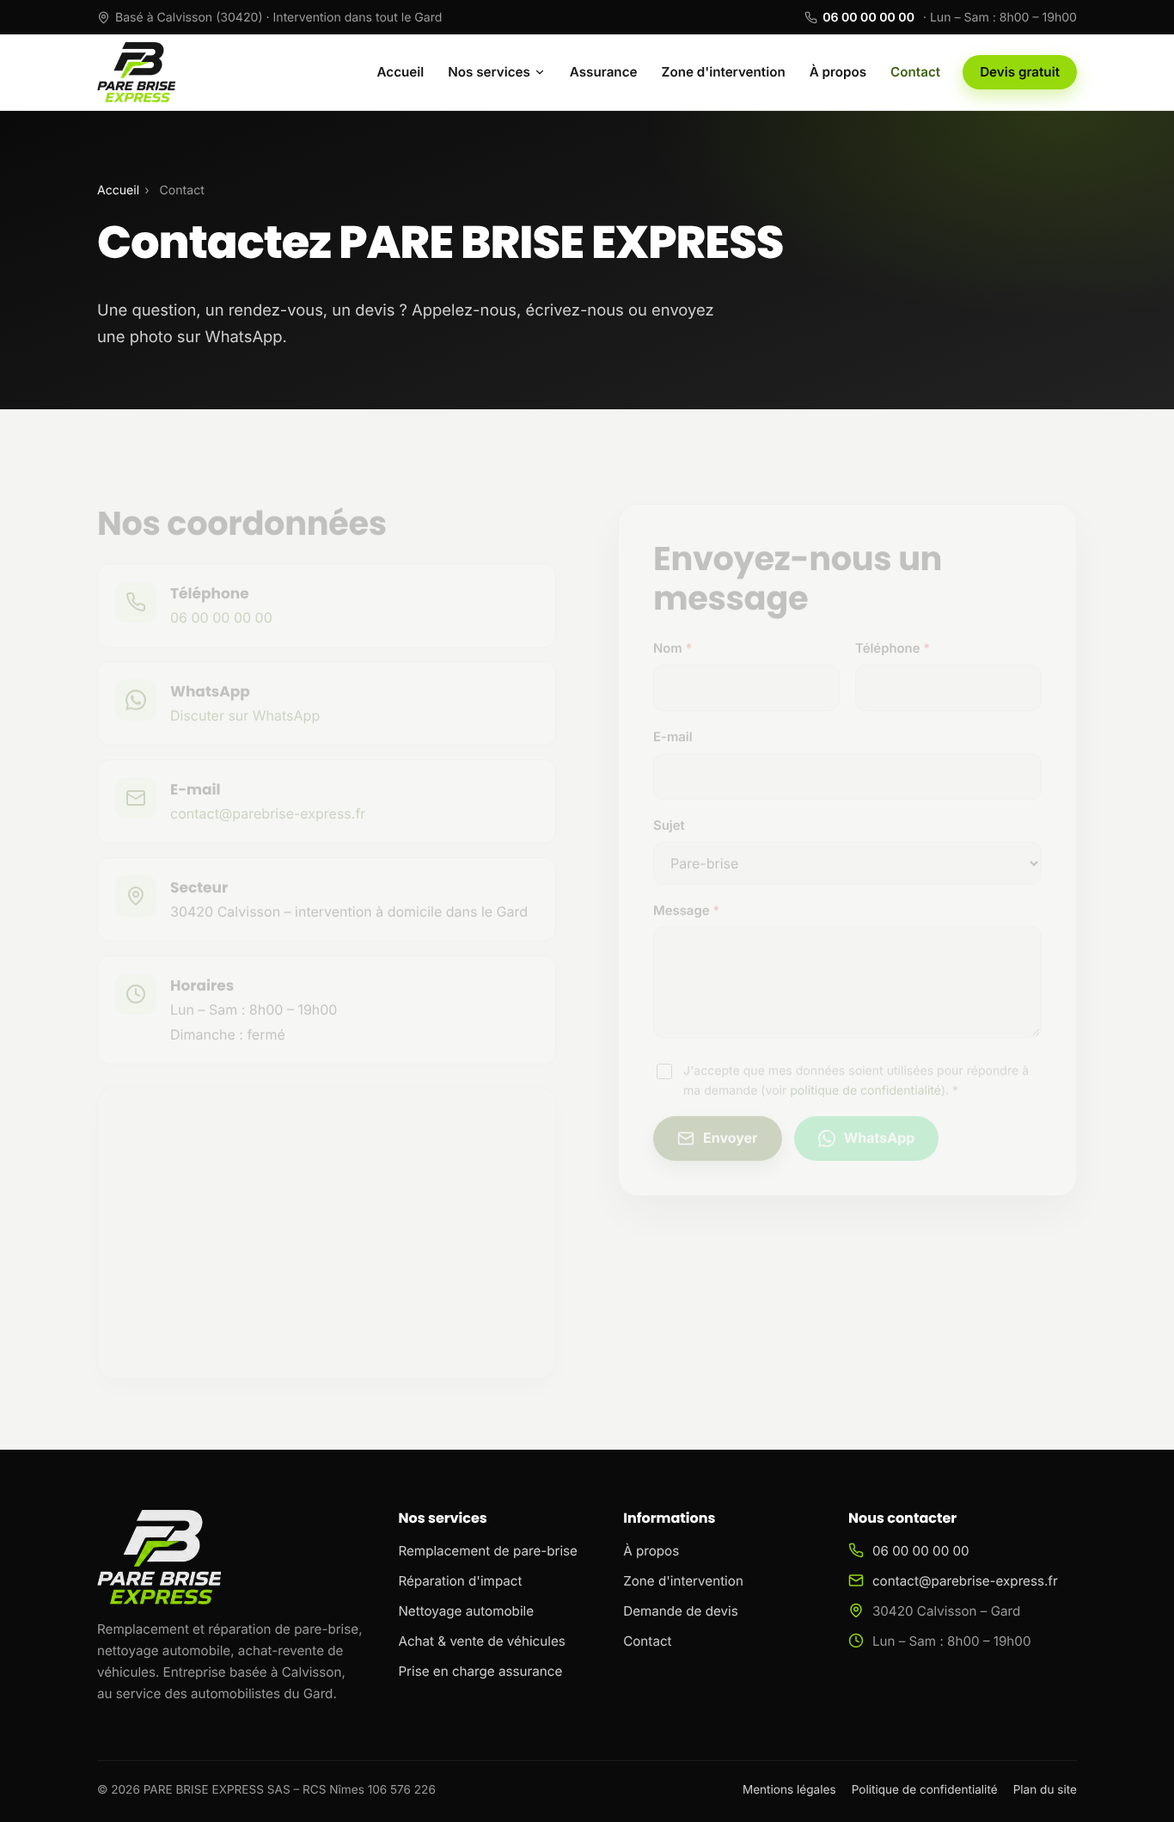
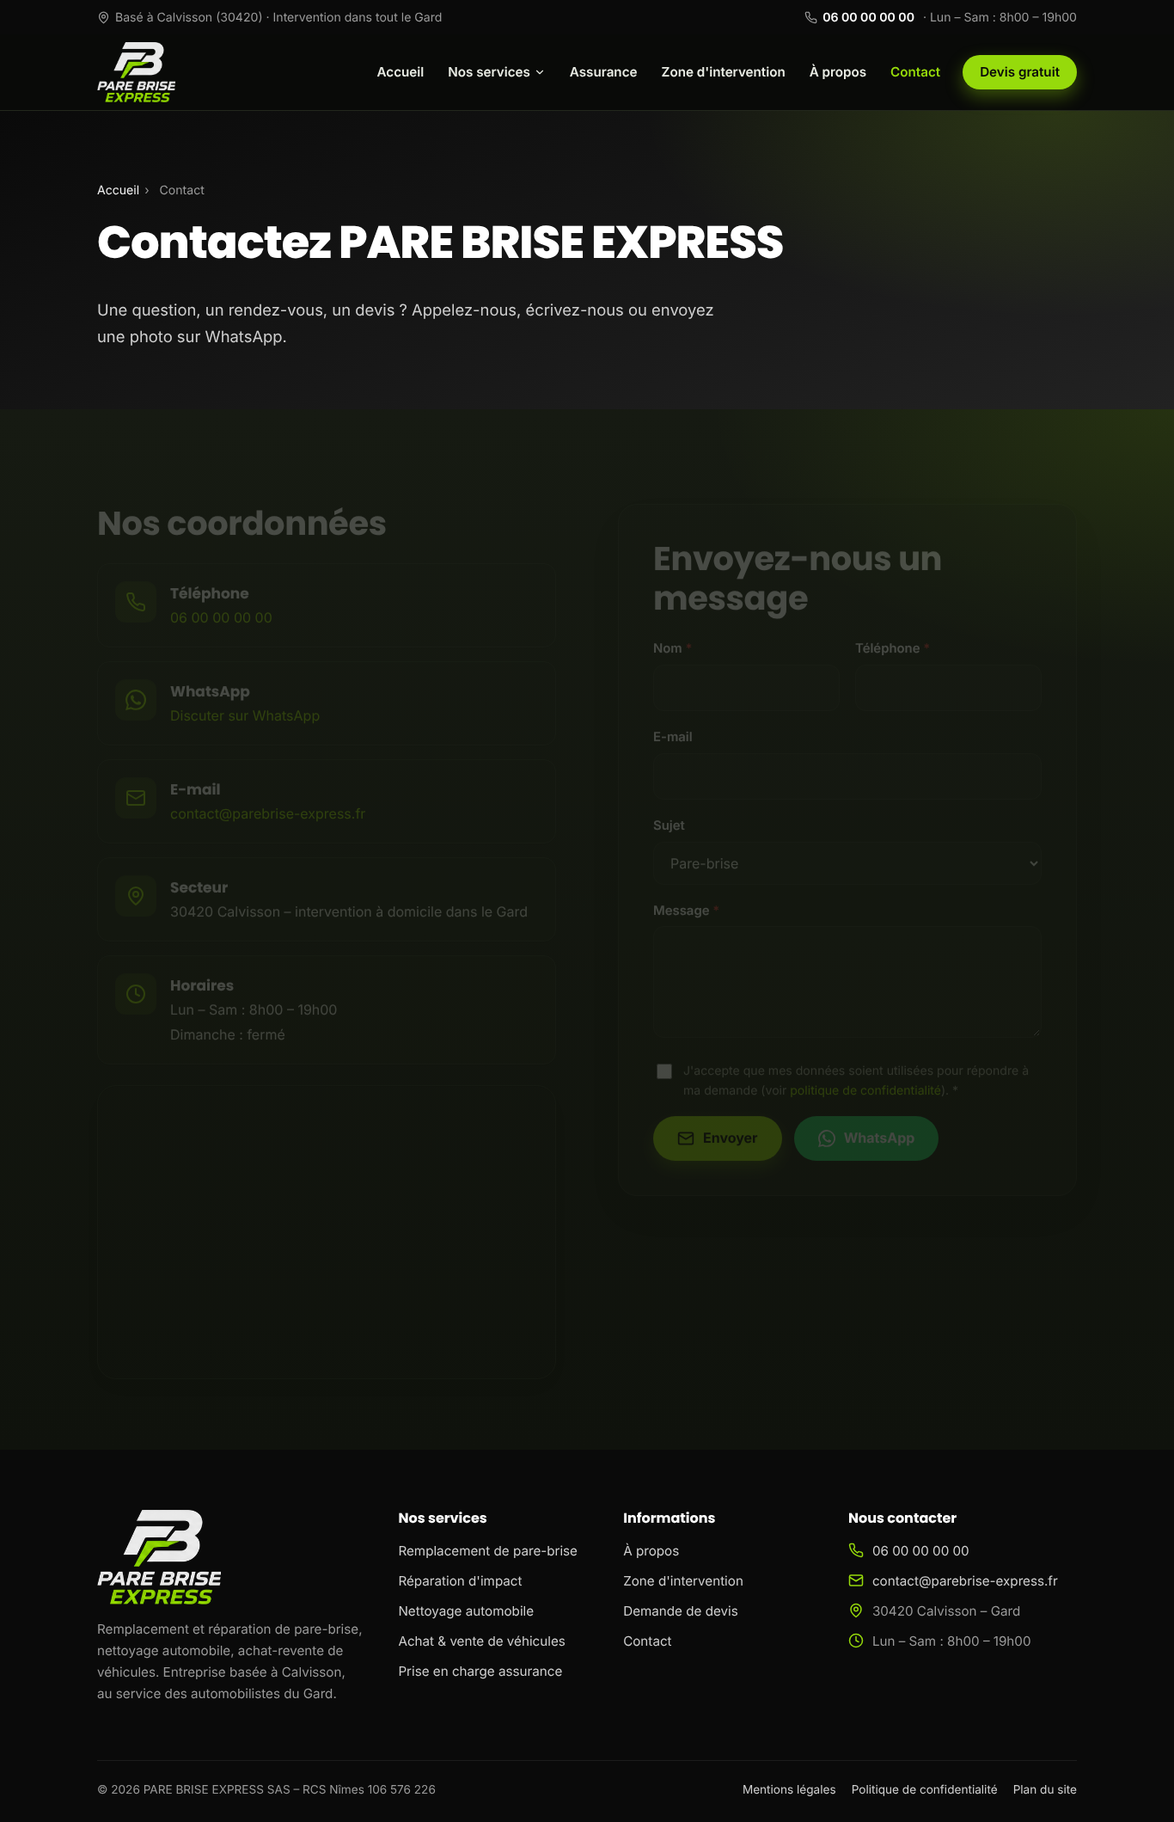
Activer l'ambiance Nuit sur tout le site
En-tête sombre avec la version blanche du logo, encarts du hero assombris,
tableau de la page Réparation d'impact sans débordement.

Claude-Session: https://claude.ai/code/session_01UgdzWtsvjubcNTfK2R8s6y

diff --git a/index.html b/index.html
@@ -1,5 +1,5 @@
 <!DOCTYPE html>
-<html lang="fr" data-palette="lime">
+<html lang="fr" data-palette="lime" data-ambiance="nuit">
 <head>
 <meta charset="utf-8">
 <meta name="viewport" content="width=device-width, initial-scale=1">
@@ -28,7 +28,7 @@
   <span><svg viewBox="0 0 24 24" fill="none" stroke="currentColor" stroke-width="2" stroke-linecap="round" stroke-linejoin="round" aria-hidden="true"><path d="M22 16.9v3a2 2 0 0 1-2.2 2 19.8 19.8 0 0 1-8.6-3.1 19.5 19.5 0 0 1-6-6A19.8 19.8 0 0 1 2.1 4.2 2 2 0 0 1 4.1 2h3a2 2 0 0 1 2 1.7c.1 1 .4 1.9.7 2.8a2 2 0 0 1-.5 2.1L8 9.9a16 16 0 0 0 6 6l1.3-1.3a2 2 0 0 1 2.1-.4c.9.3 1.8.6 2.8.7a2 2 0 0 1 1.7 2z"/></svg> <a href="tel:+33600000000">06 00 00 00 00</a> <span class="hide-sm">&nbsp;·&nbsp;Lun – Sam : 8h00 – 19h00</span></span>
 </div></div>
 <header class="header"><div class="container">
-  <a class="logo" href="index.html" aria-label="PARE BRISE EXPRESS – accueil"><img src="assets/img/logo.png" alt="PARE BRISE EXPRESS" width="269" height="206"></a>
+  <a class="logo" href="index.html" aria-label="PARE BRISE EXPRESS – accueil"><img class="logo-light" src="assets/img/logo.png" alt="PARE BRISE EXPRESS" width="269" height="206"><img class="logo-dark" src="assets/img/logo-blanc.png" alt="PARE BRISE EXPRESS" width="269" height="206"></a>
   <button class="nav-toggle" aria-label="Ouvrir le menu" aria-expanded="false" aria-controls="menu"><svg viewBox="0 0 24 24" fill="none" stroke="currentColor" stroke-width="2" stroke-linecap="round" stroke-linejoin="round" aria-hidden="true"><path d="M4 6h16M4 12h16M4 18h16"/></svg></button>
   <nav class="nav" id="menu" aria-label="Navigation principale">
     <a href="index.html" class="active" aria-current="page">Accueil</a>

diff --git a/404.html b/404.html
@@ -1,5 +1,5 @@
 <!DOCTYPE html>
-<html lang="fr" data-palette="lime">
+<html lang="fr" data-palette="lime" data-ambiance="nuit">
 <head>
 <meta charset="utf-8">
 <meta name="viewport" content="width=device-width, initial-scale=1">
@@ -27,7 +27,7 @@
   <span><svg viewBox="0 0 24 24" fill="none" stroke="currentColor" stroke-width="2" stroke-linecap="round" stroke-linejoin="round" aria-hidden="true"><path d="M22 16.9v3a2 2 0 0 1-2.2 2 19.8 19.8 0 0 1-8.6-3.1 19.5 19.5 0 0 1-6-6A19.8 19.8 0 0 1 2.1 4.2 2 2 0 0 1 4.1 2h3a2 2 0 0 1 2 1.7c.1 1 .4 1.9.7 2.8a2 2 0 0 1-.5 2.1L8 9.9a16 16 0 0 0 6 6l1.3-1.3a2 2 0 0 1 2.1-.4c.9.3 1.8.6 2.8.7a2 2 0 0 1 1.7 2z"/></svg> <a href="tel:+33600000000">06 00 00 00 00</a> <span class="hide-sm">&nbsp;·&nbsp;Lun – Sam : 8h00 – 19h00</span></span>
 </div></div>
 <header class="header"><div class="container">
-  <a class="logo" href="index.html" aria-label="PARE BRISE EXPRESS – accueil"><img src="assets/img/logo.png" alt="PARE BRISE EXPRESS" width="269" height="206"></a>
+  <a class="logo" href="index.html" aria-label="PARE BRISE EXPRESS – accueil"><img class="logo-light" src="assets/img/logo.png" alt="PARE BRISE EXPRESS" width="269" height="206"><img class="logo-dark" src="assets/img/logo-blanc.png" alt="PARE BRISE EXPRESS" width="269" height="206"></a>
   <button class="nav-toggle" aria-label="Ouvrir le menu" aria-expanded="false" aria-controls="menu"><svg viewBox="0 0 24 24" fill="none" stroke="currentColor" stroke-width="2" stroke-linecap="round" stroke-linejoin="round" aria-hidden="true"><path d="M4 6h16M4 12h16M4 18h16"/></svg></button>
   <nav class="nav" id="menu" aria-label="Navigation principale">
     <a href="index.html">Accueil</a>

diff --git a/a-propos.html b/a-propos.html
@@ -1,5 +1,5 @@
 <!DOCTYPE html>
-<html lang="fr" data-palette="lime">
+<html lang="fr" data-palette="lime" data-ambiance="nuit">
 <head>
 <meta charset="utf-8">
 <meta name="viewport" content="width=device-width, initial-scale=1">
@@ -27,7 +27,7 @@
   <span><svg viewBox="0 0 24 24" fill="none" stroke="currentColor" stroke-width="2" stroke-linecap="round" stroke-linejoin="round" aria-hidden="true"><path d="M22 16.9v3a2 2 0 0 1-2.2 2 19.8 19.8 0 0 1-8.6-3.1 19.5 19.5 0 0 1-6-6A19.8 19.8 0 0 1 2.1 4.2 2 2 0 0 1 4.1 2h3a2 2 0 0 1 2 1.7c.1 1 .4 1.9.7 2.8a2 2 0 0 1-.5 2.1L8 9.9a16 16 0 0 0 6 6l1.3-1.3a2 2 0 0 1 2.1-.4c.9.3 1.8.6 2.8.7a2 2 0 0 1 1.7 2z"/></svg> <a href="tel:+33600000000">06 00 00 00 00</a> <span class="hide-sm">&nbsp;·&nbsp;Lun – Sam : 8h00 – 19h00</span></span>
 </div></div>
 <header class="header"><div class="container">
-  <a class="logo" href="index.html" aria-label="PARE BRISE EXPRESS – accueil"><img src="assets/img/logo.png" alt="PARE BRISE EXPRESS" width="269" height="206"></a>
+  <a class="logo" href="index.html" aria-label="PARE BRISE EXPRESS – accueil"><img class="logo-light" src="assets/img/logo.png" alt="PARE BRISE EXPRESS" width="269" height="206"><img class="logo-dark" src="assets/img/logo-blanc.png" alt="PARE BRISE EXPRESS" width="269" height="206"></a>
   <button class="nav-toggle" aria-label="Ouvrir le menu" aria-expanded="false" aria-controls="menu"><svg viewBox="0 0 24 24" fill="none" stroke="currentColor" stroke-width="2" stroke-linecap="round" stroke-linejoin="round" aria-hidden="true"><path d="M4 6h16M4 12h16M4 18h16"/></svg></button>
   <nav class="nav" id="menu" aria-label="Navigation principale">
     <a href="index.html">Accueil</a>

diff --git a/achat-vente-vehicules.html b/achat-vente-vehicules.html
@@ -1,5 +1,5 @@
 <!DOCTYPE html>
-<html lang="fr" data-palette="lime">
+<html lang="fr" data-palette="lime" data-ambiance="nuit">
 <head>
 <meta charset="utf-8">
 <meta name="viewport" content="width=device-width, initial-scale=1">
@@ -27,7 +27,7 @@
   <span><svg viewBox="0 0 24 24" fill="none" stroke="currentColor" stroke-width="2" stroke-linecap="round" stroke-linejoin="round" aria-hidden="true"><path d="M22 16.9v3a2 2 0 0 1-2.2 2 19.8 19.8 0 0 1-8.6-3.1 19.5 19.5 0 0 1-6-6A19.8 19.8 0 0 1 2.1 4.2 2 2 0 0 1 4.1 2h3a2 2 0 0 1 2 1.7c.1 1 .4 1.9.7 2.8a2 2 0 0 1-.5 2.1L8 9.9a16 16 0 0 0 6 6l1.3-1.3a2 2 0 0 1 2.1-.4c.9.3 1.8.6 2.8.7a2 2 0 0 1 1.7 2z"/></svg> <a href="tel:+33600000000">06 00 00 00 00</a> <span class="hide-sm">&nbsp;·&nbsp;Lun – Sam : 8h00 – 19h00</span></span>
 </div></div>
 <header class="header"><div class="container">
-  <a class="logo" href="index.html" aria-label="PARE BRISE EXPRESS – accueil"><img src="assets/img/logo.png" alt="PARE BRISE EXPRESS" width="269" height="206"></a>
+  <a class="logo" href="index.html" aria-label="PARE BRISE EXPRESS – accueil"><img class="logo-light" src="assets/img/logo.png" alt="PARE BRISE EXPRESS" width="269" height="206"><img class="logo-dark" src="assets/img/logo-blanc.png" alt="PARE BRISE EXPRESS" width="269" height="206"></a>
   <button class="nav-toggle" aria-label="Ouvrir le menu" aria-expanded="false" aria-controls="menu"><svg viewBox="0 0 24 24" fill="none" stroke="currentColor" stroke-width="2" stroke-linecap="round" stroke-linejoin="round" aria-hidden="true"><path d="M4 6h16M4 12h16M4 18h16"/></svg></button>
   <nav class="nav" id="menu" aria-label="Navigation principale">
     <a href="index.html">Accueil</a>

diff --git a/assurance.html b/assurance.html
@@ -1,5 +1,5 @@
 <!DOCTYPE html>
-<html lang="fr" data-palette="lime">
+<html lang="fr" data-palette="lime" data-ambiance="nuit">
 <head>
 <meta charset="utf-8">
 <meta name="viewport" content="width=device-width, initial-scale=1">
@@ -28,7 +28,7 @@
   <span><svg viewBox="0 0 24 24" fill="none" stroke="currentColor" stroke-width="2" stroke-linecap="round" stroke-linejoin="round" aria-hidden="true"><path d="M22 16.9v3a2 2 0 0 1-2.2 2 19.8 19.8 0 0 1-8.6-3.1 19.5 19.5 0 0 1-6-6A19.8 19.8 0 0 1 2.1 4.2 2 2 0 0 1 4.1 2h3a2 2 0 0 1 2 1.7c.1 1 .4 1.9.7 2.8a2 2 0 0 1-.5 2.1L8 9.9a16 16 0 0 0 6 6l1.3-1.3a2 2 0 0 1 2.1-.4c.9.3 1.8.6 2.8.7a2 2 0 0 1 1.7 2z"/></svg> <a href="tel:+33600000000">06 00 00 00 00</a> <span class="hide-sm">&nbsp;·&nbsp;Lun – Sam : 8h00 – 19h00</span></span>
 </div></div>
 <header class="header"><div class="container">
-  <a class="logo" href="index.html" aria-label="PARE BRISE EXPRESS – accueil"><img src="assets/img/logo.png" alt="PARE BRISE EXPRESS" width="269" height="206"></a>
+  <a class="logo" href="index.html" aria-label="PARE BRISE EXPRESS – accueil"><img class="logo-light" src="assets/img/logo.png" alt="PARE BRISE EXPRESS" width="269" height="206"><img class="logo-dark" src="assets/img/logo-blanc.png" alt="PARE BRISE EXPRESS" width="269" height="206"></a>
   <button class="nav-toggle" aria-label="Ouvrir le menu" aria-expanded="false" aria-controls="menu"><svg viewBox="0 0 24 24" fill="none" stroke="currentColor" stroke-width="2" stroke-linecap="round" stroke-linejoin="round" aria-hidden="true"><path d="M4 6h16M4 12h16M4 18h16"/></svg></button>
   <nav class="nav" id="menu" aria-label="Navigation principale">
     <a href="index.html">Accueil</a>

diff --git a/confidentialite.html b/confidentialite.html
@@ -1,5 +1,5 @@
 <!DOCTYPE html>
-<html lang="fr" data-palette="lime">
+<html lang="fr" data-palette="lime" data-ambiance="nuit">
 <head>
 <meta charset="utf-8">
 <meta name="viewport" content="width=device-width, initial-scale=1">
@@ -27,7 +27,7 @@
   <span><svg viewBox="0 0 24 24" fill="none" stroke="currentColor" stroke-width="2" stroke-linecap="round" stroke-linejoin="round" aria-hidden="true"><path d="M22 16.9v3a2 2 0 0 1-2.2 2 19.8 19.8 0 0 1-8.6-3.1 19.5 19.5 0 0 1-6-6A19.8 19.8 0 0 1 2.1 4.2 2 2 0 0 1 4.1 2h3a2 2 0 0 1 2 1.7c.1 1 .4 1.9.7 2.8a2 2 0 0 1-.5 2.1L8 9.9a16 16 0 0 0 6 6l1.3-1.3a2 2 0 0 1 2.1-.4c.9.3 1.8.6 2.8.7a2 2 0 0 1 1.7 2z"/></svg> <a href="tel:+33600000000">06 00 00 00 00</a> <span class="hide-sm">&nbsp;·&nbsp;Lun – Sam : 8h00 – 19h00</span></span>
 </div></div>
 <header class="header"><div class="container">
-  <a class="logo" href="index.html" aria-label="PARE BRISE EXPRESS – accueil"><img src="assets/img/logo.png" alt="PARE BRISE EXPRESS" width="269" height="206"></a>
+  <a class="logo" href="index.html" aria-label="PARE BRISE EXPRESS – accueil"><img class="logo-light" src="assets/img/logo.png" alt="PARE BRISE EXPRESS" width="269" height="206"><img class="logo-dark" src="assets/img/logo-blanc.png" alt="PARE BRISE EXPRESS" width="269" height="206"></a>
   <button class="nav-toggle" aria-label="Ouvrir le menu" aria-expanded="false" aria-controls="menu"><svg viewBox="0 0 24 24" fill="none" stroke="currentColor" stroke-width="2" stroke-linecap="round" stroke-linejoin="round" aria-hidden="true"><path d="M4 6h16M4 12h16M4 18h16"/></svg></button>
   <nav class="nav" id="menu" aria-label="Navigation principale">
     <a href="index.html">Accueil</a>

diff --git a/contact.html b/contact.html
@@ -1,5 +1,5 @@
 <!DOCTYPE html>
-<html lang="fr" data-palette="lime">
+<html lang="fr" data-palette="lime" data-ambiance="nuit">
 <head>
 <meta charset="utf-8">
 <meta name="viewport" content="width=device-width, initial-scale=1">
@@ -27,7 +27,7 @@
   <span><svg viewBox="0 0 24 24" fill="none" stroke="currentColor" stroke-width="2" stroke-linecap="round" stroke-linejoin="round" aria-hidden="true"><path d="M22 16.9v3a2 2 0 0 1-2.2 2 19.8 19.8 0 0 1-8.6-3.1 19.5 19.5 0 0 1-6-6A19.8 19.8 0 0 1 2.1 4.2 2 2 0 0 1 4.1 2h3a2 2 0 0 1 2 1.7c.1 1 .4 1.9.7 2.8a2 2 0 0 1-.5 2.1L8 9.9a16 16 0 0 0 6 6l1.3-1.3a2 2 0 0 1 2.1-.4c.9.3 1.8.6 2.8.7a2 2 0 0 1 1.7 2z"/></svg> <a href="tel:+33600000000">06 00 00 00 00</a> <span class="hide-sm">&nbsp;·&nbsp;Lun – Sam : 8h00 – 19h00</span></span>
 </div></div>
 <header class="header"><div class="container">
-  <a class="logo" href="index.html" aria-label="PARE BRISE EXPRESS – accueil"><img src="assets/img/logo.png" alt="PARE BRISE EXPRESS" width="269" height="206"></a>
+  <a class="logo" href="index.html" aria-label="PARE BRISE EXPRESS – accueil"><img class="logo-light" src="assets/img/logo.png" alt="PARE BRISE EXPRESS" width="269" height="206"><img class="logo-dark" src="assets/img/logo-blanc.png" alt="PARE BRISE EXPRESS" width="269" height="206"></a>
   <button class="nav-toggle" aria-label="Ouvrir le menu" aria-expanded="false" aria-controls="menu"><svg viewBox="0 0 24 24" fill="none" stroke="currentColor" stroke-width="2" stroke-linecap="round" stroke-linejoin="round" aria-hidden="true"><path d="M4 6h16M4 12h16M4 18h16"/></svg></button>
   <nav class="nav" id="menu" aria-label="Navigation principale">
     <a href="index.html">Accueil</a>

diff --git a/devis.html b/devis.html
@@ -1,5 +1,5 @@
 <!DOCTYPE html>
-<html lang="fr" data-palette="lime">
+<html lang="fr" data-palette="lime" data-ambiance="nuit">
 <head>
 <meta charset="utf-8">
 <meta name="viewport" content="width=device-width, initial-scale=1">
@@ -27,7 +27,7 @@
   <span><svg viewBox="0 0 24 24" fill="none" stroke="currentColor" stroke-width="2" stroke-linecap="round" stroke-linejoin="round" aria-hidden="true"><path d="M22 16.9v3a2 2 0 0 1-2.2 2 19.8 19.8 0 0 1-8.6-3.1 19.5 19.5 0 0 1-6-6A19.8 19.8 0 0 1 2.1 4.2 2 2 0 0 1 4.1 2h3a2 2 0 0 1 2 1.7c.1 1 .4 1.9.7 2.8a2 2 0 0 1-.5 2.1L8 9.9a16 16 0 0 0 6 6l1.3-1.3a2 2 0 0 1 2.1-.4c.9.3 1.8.6 2.8.7a2 2 0 0 1 1.7 2z"/></svg> <a href="tel:+33600000000">06 00 00 00 00</a> <span class="hide-sm">&nbsp;·&nbsp;Lun – Sam : 8h00 – 19h00</span></span>
 </div></div>
 <header class="header"><div class="container">
-  <a class="logo" href="index.html" aria-label="PARE BRISE EXPRESS – accueil"><img src="assets/img/logo.png" alt="PARE BRISE EXPRESS" width="269" height="206"></a>
+  <a class="logo" href="index.html" aria-label="PARE BRISE EXPRESS – accueil"><img class="logo-light" src="assets/img/logo.png" alt="PARE BRISE EXPRESS" width="269" height="206"><img class="logo-dark" src="assets/img/logo-blanc.png" alt="PARE BRISE EXPRESS" width="269" height="206"></a>
   <button class="nav-toggle" aria-label="Ouvrir le menu" aria-expanded="false" aria-controls="menu"><svg viewBox="0 0 24 24" fill="none" stroke="currentColor" stroke-width="2" stroke-linecap="round" stroke-linejoin="round" aria-hidden="true"><path d="M4 6h16M4 12h16M4 18h16"/></svg></button>
   <nav class="nav" id="menu" aria-label="Navigation principale">
     <a href="index.html">Accueil</a>

diff --git a/mentions-legales.html b/mentions-legales.html
@@ -1,5 +1,5 @@
 <!DOCTYPE html>
-<html lang="fr" data-palette="lime">
+<html lang="fr" data-palette="lime" data-ambiance="nuit">
 <head>
 <meta charset="utf-8">
 <meta name="viewport" content="width=device-width, initial-scale=1">
@@ -27,7 +27,7 @@
   <span><svg viewBox="0 0 24 24" fill="none" stroke="currentColor" stroke-width="2" stroke-linecap="round" stroke-linejoin="round" aria-hidden="true"><path d="M22 16.9v3a2 2 0 0 1-2.2 2 19.8 19.8 0 0 1-8.6-3.1 19.5 19.5 0 0 1-6-6A19.8 19.8 0 0 1 2.1 4.2 2 2 0 0 1 4.1 2h3a2 2 0 0 1 2 1.7c.1 1 .4 1.9.7 2.8a2 2 0 0 1-.5 2.1L8 9.9a16 16 0 0 0 6 6l1.3-1.3a2 2 0 0 1 2.1-.4c.9.3 1.8.6 2.8.7a2 2 0 0 1 1.7 2z"/></svg> <a href="tel:+33600000000">06 00 00 00 00</a> <span class="hide-sm">&nbsp;·&nbsp;Lun – Sam : 8h00 – 19h00</span></span>
 </div></div>
 <header class="header"><div class="container">
-  <a class="logo" href="index.html" aria-label="PARE BRISE EXPRESS – accueil"><img src="assets/img/logo.png" alt="PARE BRISE EXPRESS" width="269" height="206"></a>
+  <a class="logo" href="index.html" aria-label="PARE BRISE EXPRESS – accueil"><img class="logo-light" src="assets/img/logo.png" alt="PARE BRISE EXPRESS" width="269" height="206"><img class="logo-dark" src="assets/img/logo-blanc.png" alt="PARE BRISE EXPRESS" width="269" height="206"></a>
   <button class="nav-toggle" aria-label="Ouvrir le menu" aria-expanded="false" aria-controls="menu"><svg viewBox="0 0 24 24" fill="none" stroke="currentColor" stroke-width="2" stroke-linecap="round" stroke-linejoin="round" aria-hidden="true"><path d="M4 6h16M4 12h16M4 18h16"/></svg></button>
   <nav class="nav" id="menu" aria-label="Navigation principale">
     <a href="index.html">Accueil</a>

diff --git a/nettoyage-automobile.html b/nettoyage-automobile.html
@@ -1,5 +1,5 @@
 <!DOCTYPE html>
-<html lang="fr" data-palette="lime">
+<html lang="fr" data-palette="lime" data-ambiance="nuit">
 <head>
 <meta charset="utf-8">
 <meta name="viewport" content="width=device-width, initial-scale=1">
@@ -27,7 +27,7 @@
   <span><svg viewBox="0 0 24 24" fill="none" stroke="currentColor" stroke-width="2" stroke-linecap="round" stroke-linejoin="round" aria-hidden="true"><path d="M22 16.9v3a2 2 0 0 1-2.2 2 19.8 19.8 0 0 1-8.6-3.1 19.5 19.5 0 0 1-6-6A19.8 19.8 0 0 1 2.1 4.2 2 2 0 0 1 4.1 2h3a2 2 0 0 1 2 1.7c.1 1 .4 1.9.7 2.8a2 2 0 0 1-.5 2.1L8 9.9a16 16 0 0 0 6 6l1.3-1.3a2 2 0 0 1 2.1-.4c.9.3 1.8.6 2.8.7a2 2 0 0 1 1.7 2z"/></svg> <a href="tel:+33600000000">06 00 00 00 00</a> <span class="hide-sm">&nbsp;·&nbsp;Lun – Sam : 8h00 – 19h00</span></span>
 </div></div>
 <header class="header"><div class="container">
-  <a class="logo" href="index.html" aria-label="PARE BRISE EXPRESS – accueil"><img src="assets/img/logo.png" alt="PARE BRISE EXPRESS" width="269" height="206"></a>
+  <a class="logo" href="index.html" aria-label="PARE BRISE EXPRESS – accueil"><img class="logo-light" src="assets/img/logo.png" alt="PARE BRISE EXPRESS" width="269" height="206"><img class="logo-dark" src="assets/img/logo-blanc.png" alt="PARE BRISE EXPRESS" width="269" height="206"></a>
   <button class="nav-toggle" aria-label="Ouvrir le menu" aria-expanded="false" aria-controls="menu"><svg viewBox="0 0 24 24" fill="none" stroke="currentColor" stroke-width="2" stroke-linecap="round" stroke-linejoin="round" aria-hidden="true"><path d="M4 6h16M4 12h16M4 18h16"/></svg></button>
   <nav class="nav" id="menu" aria-label="Navigation principale">
     <a href="index.html">Accueil</a>

diff --git a/remplacement-pare-brise.html b/remplacement-pare-brise.html
@@ -1,5 +1,5 @@
 <!DOCTYPE html>
-<html lang="fr" data-palette="lime">
+<html lang="fr" data-palette="lime" data-ambiance="nuit">
 <head>
 <meta charset="utf-8">
 <meta name="viewport" content="width=device-width, initial-scale=1">
@@ -28,7 +28,7 @@
   <span><svg viewBox="0 0 24 24" fill="none" stroke="currentColor" stroke-width="2" stroke-linecap="round" stroke-linejoin="round" aria-hidden="true"><path d="M22 16.9v3a2 2 0 0 1-2.2 2 19.8 19.8 0 0 1-8.6-3.1 19.5 19.5 0 0 1-6-6A19.8 19.8 0 0 1 2.1 4.2 2 2 0 0 1 4.1 2h3a2 2 0 0 1 2 1.7c.1 1 .4 1.9.7 2.8a2 2 0 0 1-.5 2.1L8 9.9a16 16 0 0 0 6 6l1.3-1.3a2 2 0 0 1 2.1-.4c.9.3 1.8.6 2.8.7a2 2 0 0 1 1.7 2z"/></svg> <a href="tel:+33600000000">06 00 00 00 00</a> <span class="hide-sm">&nbsp;·&nbsp;Lun – Sam : 8h00 – 19h00</span></span>
 </div></div>
 <header class="header"><div class="container">
-  <a class="logo" href="index.html" aria-label="PARE BRISE EXPRESS – accueil"><img src="assets/img/logo.png" alt="PARE BRISE EXPRESS" width="269" height="206"></a>
+  <a class="logo" href="index.html" aria-label="PARE BRISE EXPRESS – accueil"><img class="logo-light" src="assets/img/logo.png" alt="PARE BRISE EXPRESS" width="269" height="206"><img class="logo-dark" src="assets/img/logo-blanc.png" alt="PARE BRISE EXPRESS" width="269" height="206"></a>
   <button class="nav-toggle" aria-label="Ouvrir le menu" aria-expanded="false" aria-controls="menu"><svg viewBox="0 0 24 24" fill="none" stroke="currentColor" stroke-width="2" stroke-linecap="round" stroke-linejoin="round" aria-hidden="true"><path d="M4 6h16M4 12h16M4 18h16"/></svg></button>
   <nav class="nav" id="menu" aria-label="Navigation principale">
     <a href="index.html">Accueil</a>

diff --git a/reparation-impact.html b/reparation-impact.html
@@ -1,5 +1,5 @@
 <!DOCTYPE html>
-<html lang="fr" data-palette="lime">
+<html lang="fr" data-palette="lime" data-ambiance="nuit">
 <head>
 <meta charset="utf-8">
 <meta name="viewport" content="width=device-width, initial-scale=1">
@@ -28,7 +28,7 @@
   <span><svg viewBox="0 0 24 24" fill="none" stroke="currentColor" stroke-width="2" stroke-linecap="round" stroke-linejoin="round" aria-hidden="true"><path d="M22 16.9v3a2 2 0 0 1-2.2 2 19.8 19.8 0 0 1-8.6-3.1 19.5 19.5 0 0 1-6-6A19.8 19.8 0 0 1 2.1 4.2 2 2 0 0 1 4.1 2h3a2 2 0 0 1 2 1.7c.1 1 .4 1.9.7 2.8a2 2 0 0 1-.5 2.1L8 9.9a16 16 0 0 0 6 6l1.3-1.3a2 2 0 0 1 2.1-.4c.9.3 1.8.6 2.8.7a2 2 0 0 1 1.7 2z"/></svg> <a href="tel:+33600000000">06 00 00 00 00</a> <span class="hide-sm">&nbsp;·&nbsp;Lun – Sam : 8h00 – 19h00</span></span>
 </div></div>
 <header class="header"><div class="container">
-  <a class="logo" href="index.html" aria-label="PARE BRISE EXPRESS – accueil"><img src="assets/img/logo.png" alt="PARE BRISE EXPRESS" width="269" height="206"></a>
+  <a class="logo" href="index.html" aria-label="PARE BRISE EXPRESS – accueil"><img class="logo-light" src="assets/img/logo.png" alt="PARE BRISE EXPRESS" width="269" height="206"><img class="logo-dark" src="assets/img/logo-blanc.png" alt="PARE BRISE EXPRESS" width="269" height="206"></a>
   <button class="nav-toggle" aria-label="Ouvrir le menu" aria-expanded="false" aria-controls="menu"><svg viewBox="0 0 24 24" fill="none" stroke="currentColor" stroke-width="2" stroke-linecap="round" stroke-linejoin="round" aria-hidden="true"><path d="M4 6h16M4 12h16M4 18h16"/></svg></button>
   <nav class="nav" id="menu" aria-label="Navigation principale">
     <a href="index.html">Accueil</a>
